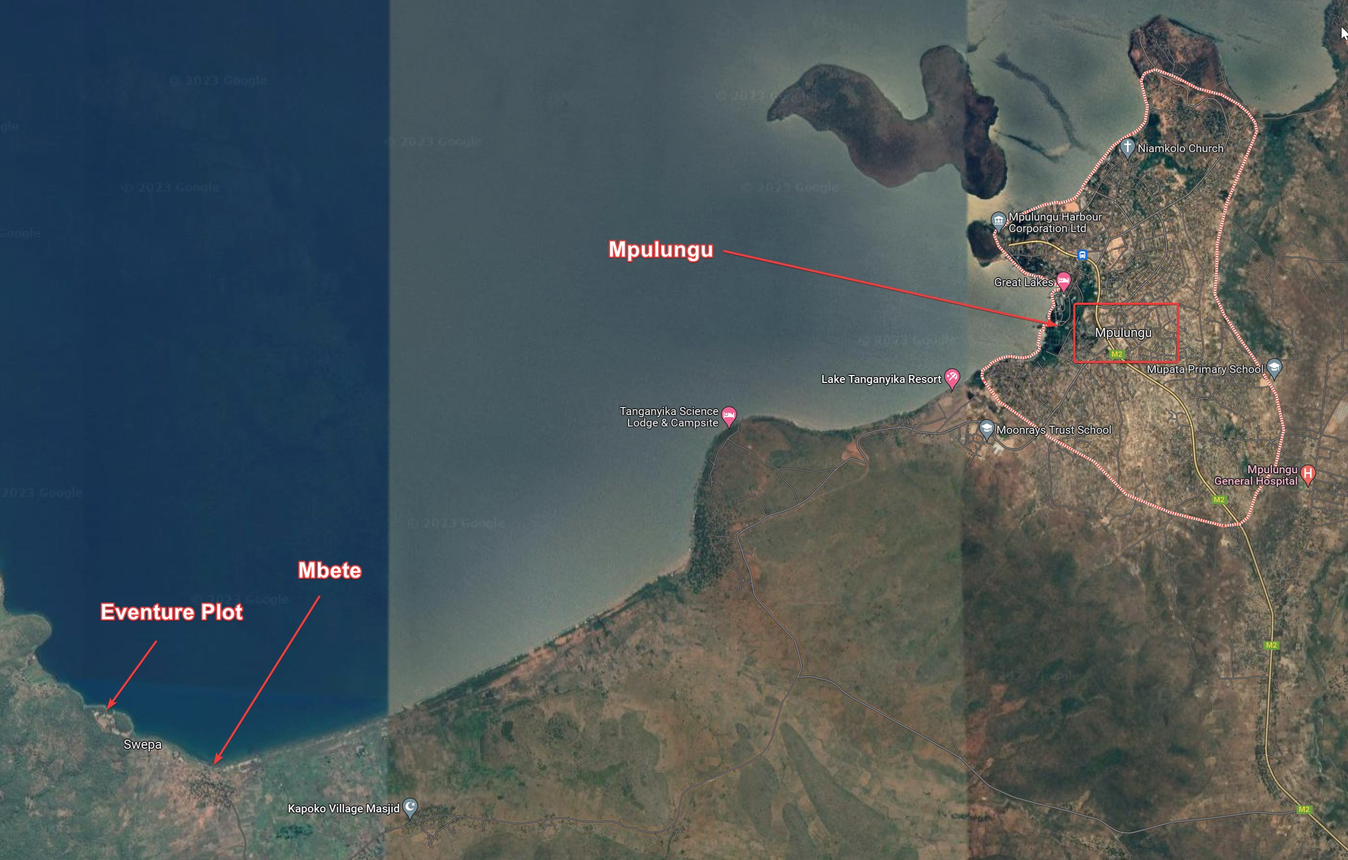
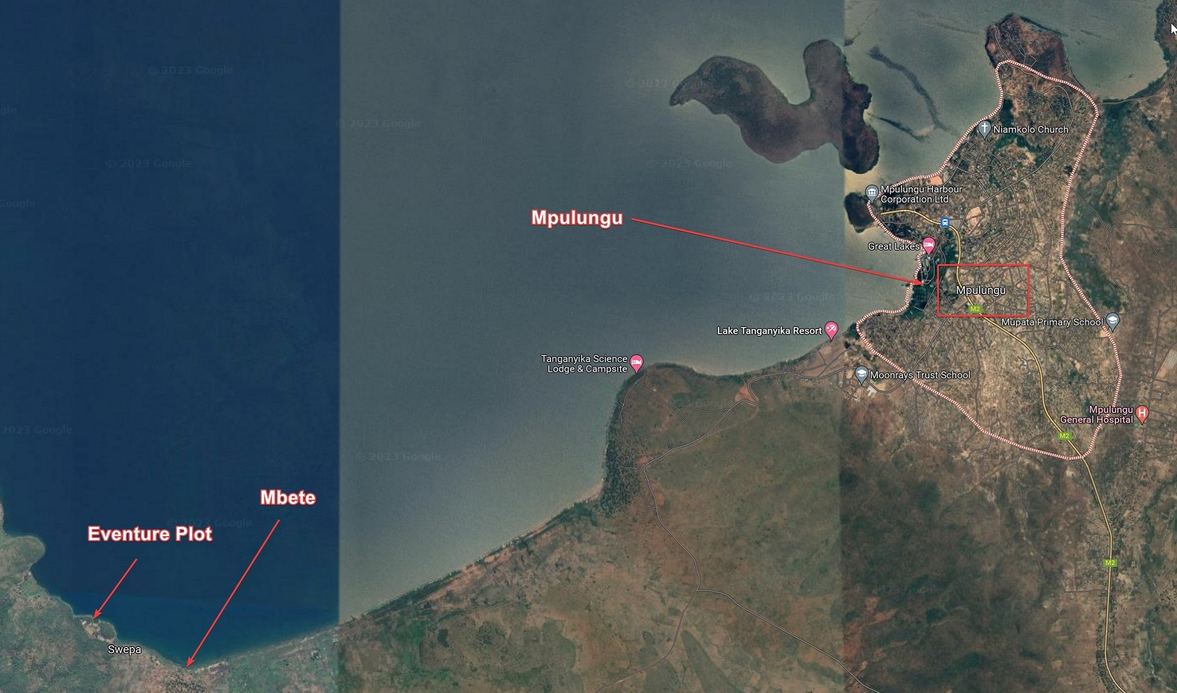
Added gallery

Changed region(s): [[0.0, 0.0, 1.0, 1.0], [0.2164, 0.6486, 0.2782, 0.8031], [0.6182, 0.7413, 0.6491, 0.7722]]

diff --git a/index.html b/index.html
@@ -1,13 +1,11 @@
 ---
 title: Rejsebreve - om Zambia og Eventure
-description: ""
-excerpt: ""
 layout: splash
 header:
   overlay_image: https://images.unsplash.com/photo-1588628176173-9127a2b9dfda?ixlib=rb-4.0.3&ixid=MnwxMjA3fDB8MHxwaG90by1wYWdlfHx8fGVufDB8fHx8&auto=format&fit=crop&h=630&w=1200&q=10
   caption: ""
 intro:
-  - excerpt: >
+  - excerpt: |
       Vi rejser til Zambia som frivillige med Eventure i 5 måneder i foråret 2023. Vi glæder os ustyrligt. Her kan du følge vores rejse og forberedelser.
 blog_link:
   - excerpt: "[Læs resten af beskrivelserne](/blog/){: .btn .btn--large .btn--success }"
@@ -37,23 +35,17 @@ feature_row_content:
     btn_class: btn--info
 last_modified_at: 2023-01-04T10:07:30+01:00
 gallery:
-  - url: https://www.partner-ads.com/dk/klikbanner.php?partnerid=28187&bannerid=87287
-    rel: sponsored nofollow noopener
-    image_path: https://www.partner-ads.com/dk/visbanner.php?partnerid=28187&bannerid=87287
-    alt: Padel Specialist
-  - url: https://www.partner-ads.com/dk/klikbanner.php?partnerid=28187&bannerid=79690
-    rel: sponsored nofollow noopener
-    image_path: https://www.padelshoppen.com/wp-content/uploads/2022/03/Padelshoppen-300-%C3%97-250.jpg
-    alt: Padel Specialist
-  - url: https://www.partner-ads.com/dk/klikbanner.php?partnerid=28187&bannerid=98527
-    rel: sponsored nofollow noopener
-    image_path: /assets/images/ad/cuera-padel.jpg
-    alt: Cuera Padel
+  - image_path: /assets/images/eventure-plot-overview-1.jpg
+    url: /assets/images/eventure-plot-overview-1.jpg
+  - image_path: /assets/images/eventure-plot-overview-2.jpg
+    url: /assets/images/eventure-plot-overview-2.jpg
+  - image_path: /assets/images/eventure-plot-overview-3.jpg
+    url: /assets/images/eventure-plot-overview-3.jpg
 ---
 
 {% include feature_row type="center" id="intro" %}
 
-{% include video provider="youtube" id="0UXAHUp6nr8" %}
+{% include video provider="youtube" id="YqwTUE93C7M" %}
 
 {% assign site_posts = site.posts | where: "tags", "featured" | sort: "last_modified_at" | reverse %}
 
@@ -88,3 +80,5 @@ gallery:
 {% include feature_row id="feature_row_content" %}
 
 {% endcomment %}
+
+{% include gallery caption="Vi skal bo på Eventure Plot, som ligger ved [Tanganyikasøen](https://da.wikipedia.org/wiki/Tanganyikas%C3%B8en) i Zambia. Her kan du se afstanden fra Mpulungu og den nærliggende by Mbete." %}
